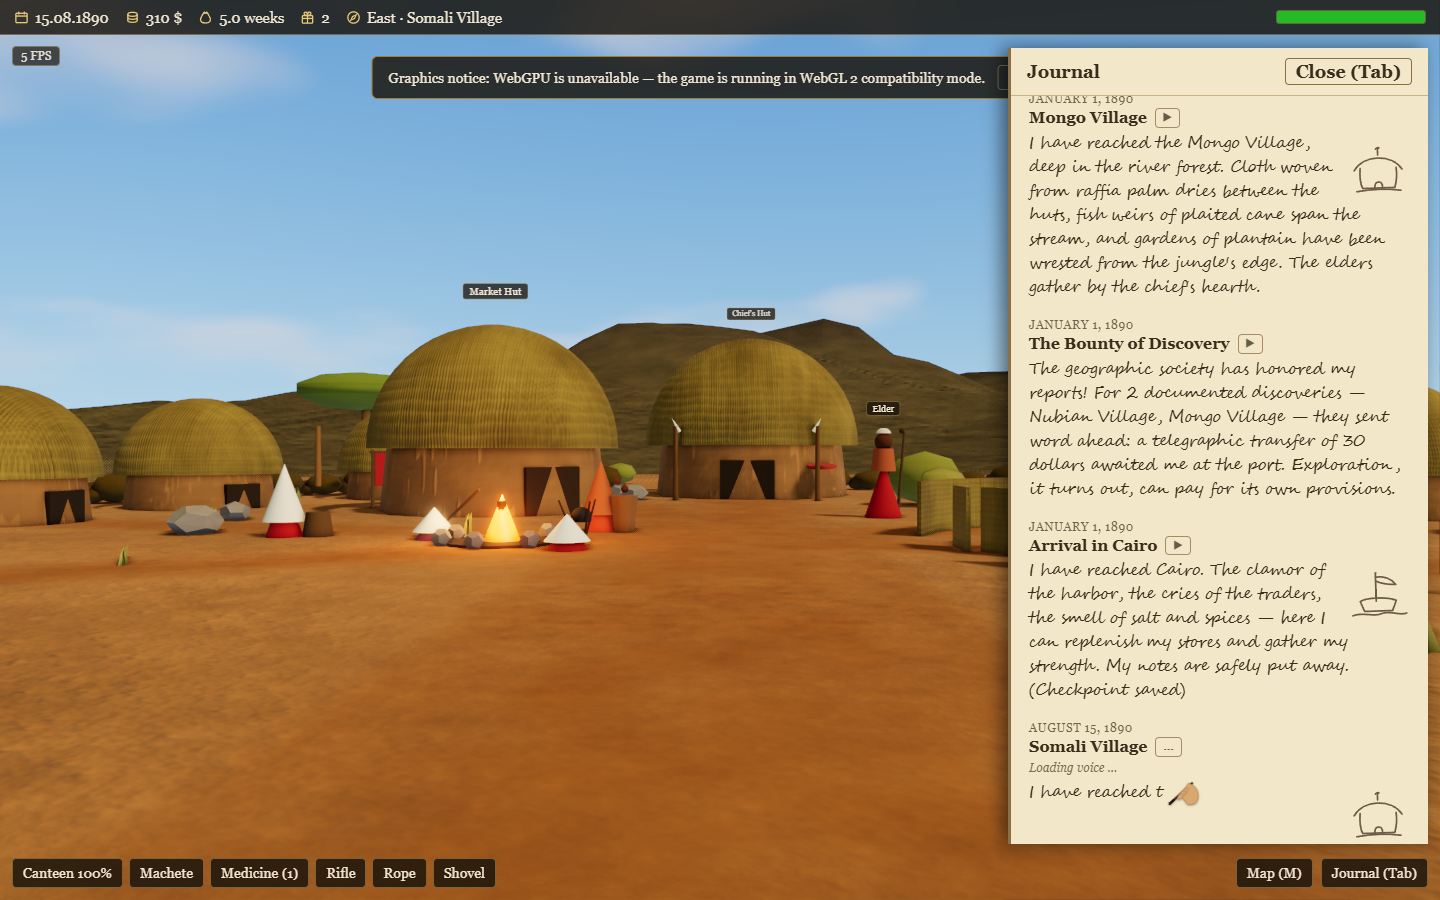
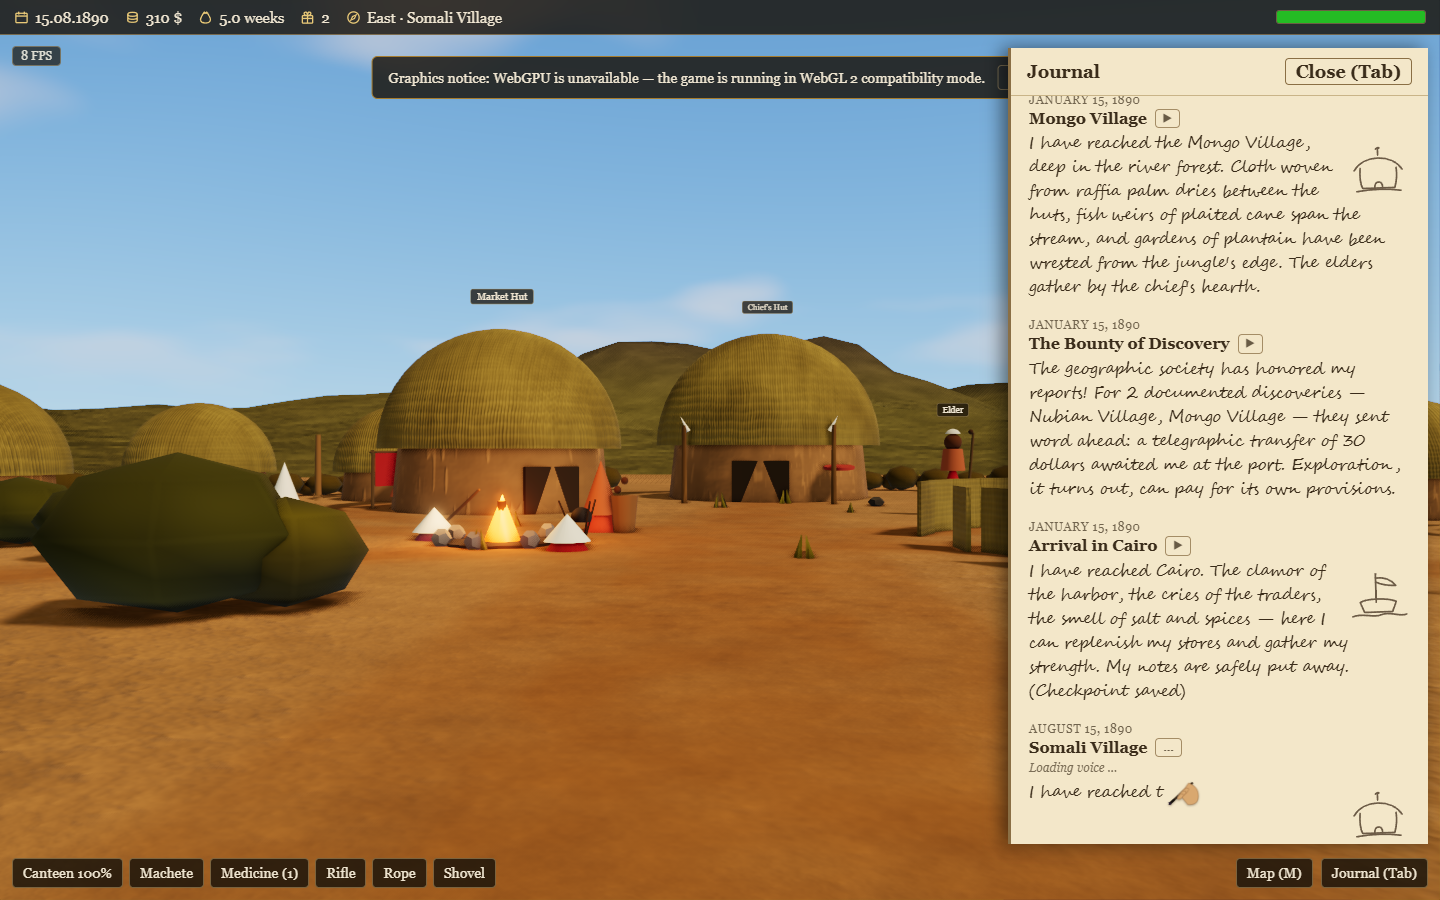
feat: the settlement season's missing renderers — rain and the flora tint
Point 143. The user, stepping through the months inside a village, saw
only the light and the skyline cloud change. Verified by grep and he was
right: point 120g had shipped a third of the settlement season. The rain
field lived only in the travel scene — a player stood in a village at the
peak of its rains and saw not one drop — and the straw/green tint lived
only in the travel terrain, so the settlement ground and trees never
bleached.

Both were missing renderers, not missing models: the place scene already
computed the wetness from the place's own coordinates and dimmed the sun
by it. Now:

- PlaceRain is its own field, calibrated for eye height: near-vertical
  streaks in a tight 16-unit column around the head, where the travel
  scene's tilted 55-unit column is calibrated for a camera looking down
  (a plumb streak from above is nearly edge-on). Driven by rainAmount of
  the place's own wetness, so a desert port never rains — verified across
  all twelve real months at Cairo, max rain 0.000.

- The flora and ground follow the season via the shared tint, extracted
  last commit. The ground is settlement-only (createGroundMaterial), so
  it never double-tints travel; bare earth barely shifts (correctly — it
  has no green to bleach), the trees and grass carry it.

Screenshot 114: the Maasai village under vertical rain.

Two bugs the live check caught along the way, both fixed: the Cairo loop
left no place entered and tripped the downstream panorama check (restored
[…]

diff --git a/src/scenes/place/PlaceRain.tsx b/src/scenes/place/PlaceRain.tsx
@@ -1,0 +1,75 @@
+// Rain inside a settlement (design.md §19.13, point 143). The travel scene's
+// rain field is calibrated for the bird's-eye camera — a wide column of
+// TILTED streaks, because a plumb streak seen from above is nearly edge-on. At
+// eye height none of that holds: the player looks horizontally, so the streaks
+// must be near-VERTICAL, and the column is tight around the head rather than
+// 55 units wide. So this is its own field, not a reused one.
+//
+// Driven by the place's own wetness (rainAmount), which is 0 in Cairo and every
+// hyper-arid coordinate — so a port in the desert never rains, with no special
+// case. Not a module singleton: the place scene rebuilds its materials each
+// visit anyway (unlike the travel scene, point 96), so a per-mount material is
+// consistent here.
+
+import { useEffect, useMemo, useRef } from 'react'
+import { useFrame } from '@react-three/fiber'
+import * as THREE from 'three/webgpu'
+import { float, hash, instanceIndex, max, positionLocal, smoothstep, time, uniform, vec3 } from 'three/tsl'
+import { balance } from '../../config/balance'
+import { rainAmount } from '../../systems/season'
+
+const RAIN_COUNT = 700
+const RAIN_RADIUS = 16 // a tight column around the head, not the travel 55
+const RAIN_HEIGHT = 15 // from above the eye to below the feet
+const RAIN_FALL_SPEED = 22
+const EYE = 1.5 // centre the column on the eye height
+
+export function PlaceRain({ wetness }: { wetness: React.MutableRefObject<number> }) {
+  const group = useRef<THREE.Group>(null)
+
+  const { material, geometry, opacityU } = useMemo(() => {
+    const opacityU = uniform(0)
+    const m = new THREE.MeshBasicNodeMaterial()
+    m.transparent = true
+    m.depthWrite = false
+    m.side = THREE.DoubleSide
+    m.fog = false
+    const i = instanceIndex.toFloat()
+    const rx = hash(i.mul(3).add(1)).sub(0.5).mul(RAIN_RADIUS * 2)
+    const rz = hash(i.mul(3).add(2)).sub(0.5).mul(RAIN_RADIUS * 2)
+    const phase = hash(i.mul(3))
+    const fall = phase.mul(RAIN_HEIGHT).sub(time.mul(RAIN_FALL_SPEED)).mod(RAIN_HEIGHT)
+    m.positionNode = positionLocal.add(vec3(rx, fall, rz))
+    m.colorNode = vec3(0.66, 0.72, 0.8)
+    const edge = max(rx.abs(), rz.abs()).div(RAIN_RADIUS)
+    m.opacityNode = opacityU.mul(smoothstep(float(1), float(0.4), edge)).mul(0.8)
+    // Slim near-vertical streaks, longer than the travel scene's so they read at
+    // eye height; a second, crossed set (below) shows them from any yaw.
+    const geometry = new THREE.PlaneGeometry(0.03, 1.1)
+    return { material: m, geometry, opacityU }
+  }, [])
+
+  useEffect(() => () => {
+    material.dispose()
+    geometry.dispose()
+  }, [material, geometry])
+
+  useFrame(({ camera }, dt) => {
+    // Follow the head so the column always surrounds the player.
+    if (group.current) group.current.position.set(camera.position.x, EYE, camera.position.z)
+    const target = rainAmount(wetness.current, balance.season.weatherStrength)
+    opacityU.value += (target - opacityU.value) * Math.min(1, dt * 1.5)
+    if (group.current) group.current.visible = opacityU.value > 0.01
+  })
+
+  return (
+    <group ref={group}>
+      <instancedMesh args={[geometry, material, RAIN_COUNT]} frustumCulled={false} />
+      <instancedMesh
+        args={[geometry, material, RAIN_COUNT]}
+        rotation={[0, Math.PI / 2, 0]}
+        frustumCulled={false}
+      />
+    </group>
+  )
+}

diff --git a/src/scenes/place/PlaceScene.tsx b/src/scenes/place/PlaceScene.tsx
@@ -22,11 +22,13 @@ import {
   texture as textureNode,
   vec2,
   vec3,
+  vertexColor,
 } from 'three/tsl'
+import { SEASON_TINT_U, seasonTintNode, setSeasonTint } from '../../render/seasonTint'
 import { useGame } from '../../state/store'
 import { useUi } from '../../state/ui'
 import { balance, START_YEAR } from '../../config/balance'
-import { effectiveWetness, RAIN_GRAY, skyOvercastParams, sunDimFactor } from '../../systems/season'
+import { effectiveGreenness, effectiveWetness, RAIN_GRAY, rainAmount, skyOvercastParams, sunDimFactor } from '../../systems/season'
 import { cloakForCloth } from '../../systems/dress'
 import { useColdCloaks, type ColdDress } from './useColdCloaks'
 import { elevationAt } from '../../world/geodata'
@@ -44,6 +46,7 @@ import {
 import { mulberry32 } from '../../world/noise'
 import { consumeTouchLook, gamepadLook, gamepadMove, isKeyDown, onKeyPress, touchMove } from '../../systems/input'
 import { SkyDome } from '../../render/sky'
+import { PlaceRain } from './PlaceRain'
 import { setSkyOvercast, skyOvercast } from '../../render/skyOvercast'
 import { PORT_SKY, VILLAGE_SKY } from '../../render/skyPresets'
 import { createGroundMaterial, createNoisyMaterial, createSurfaceMaterial, detailFade, proceduralBump } from '../../render/materials'
@@ -931,7 +934,15 @@ function GroundScatter({
 
   const tuftGeo = useMemo(() => buildGrassTuft(), [])
   const rockGeo = useMemo(() => buildRock(), [])
-  const material = useMemo(() => new THREE.MeshStandardMaterial({ vertexColors: true, roughness: 0.95 }), [])
+  // Grass tufts follow the season (point 143); the shared rock instances ride the
+  // same material, and the tint's greenness mask leaves their grey untouched.
+  const material = useMemo(() => {
+    const m = new THREE.MeshStandardNodeMaterial()
+    m.vertexColors = true
+    m.roughness = 0.95
+    m.colorNode = seasonTintNode(vertexColor().rgb)
+    return m
+  }, [])
   const tuftMesh = useRef<THREE.InstancedMesh>(null)
   const rockMesh = useRef<THREE.InstancedMesh>(null)
 
@@ -1424,10 +1435,15 @@ export function PlaceScene() {
     () => ({ palm: buildPalm(true), acacia: buildAcacia(), jungle: buildJungleTree(), bush: buildBush() }),
     [],
   )
-  const floraMaterial = useMemo(
-    () => new THREE.MeshStandardMaterial({ vertexColors: true, roughness: 0.9 }),
-    [],
-  )
+  const floraMaterial = useMemo(() => {
+    // A node material so the settlement's trees and bushes follow the season
+    // (design.md §19.13, point 143), with the same tint the travel flora uses.
+    const m = new THREE.MeshStandardNodeMaterial()
+    m.vertexColors = true
+    m.roughness = 0.9
+    m.colorNode = seasonTintNode(vertexColor().rgb)
+    return m
+  }, [])
 
   // yaw 0 faces -Z (toward the place center from the southern spawn point).
   const player = useRef({ x: 0, z: 18, yaw: 0 })
@@ -1481,6 +1497,8 @@ export function PlaceScene() {
       sun: sunRef.current?.intensity ?? 0,
       hemi: hemiRef.current?.intensity ?? 0,
       sky: skyOvercast(),
+      rain: rainAmount(placeWetness.current, balance.season.weatherStrength),
+      tint: SEASON_TINT_U.value,
     })
     return () => {
       delete w.__placeSeason
@@ -1598,6 +1616,14 @@ export function PlaceScene() {
       const dim = sunDimFactor(wet, balance.season.weatherStrength)
       const sky = skyOvercastParams(wet, balance.season.weatherStrength)
       setSkyOvercast(sky.grayMix, sky.cloudBoost)
+      // The ground and flora bleach/green with the season, driven from THIS
+      // place's greenness — relative-per-zone like the travel scene, so a
+      // savanna village bleaches fully while the desert and the basin stay put.
+      const green = effectiveGreenness(
+        useGame.getState().day, place.lat, place.lon, START_YEAR,
+        elevationAt(place.lat, place.lon), useUi.getState().seasonWetnessOverride,
+      )
+      setSeasonTint(green, balance.season.weatherStrength)
       const k = Math.min(1, dt * 0.8)
       // The fog carries the overcast onto the §2.5 backdrop, which is otherwise
       // lit by the preset alone and would stay sunny behind a rained-out village.
@@ -1773,6 +1799,7 @@ export function PlaceScene() {
       <color attach="background" args={[sky.horizon]} />
       <fog attach="fog" args={[sky.horizon, 42, 320]} />
       <SkyDome preset={sky} sunDirection={SUN_DIR} radius={400} />
+      <PlaceRain wetness={placeWetness} />
       <hemisphereLight ref={hemiRef} args={[isPort ? '#cfe2ee' : '#d8e2c2', '#8f7a55', PLACE_HEMI_INTENSITY]} />
       <directionalLight
         // Remount the light when shadows toggle so the shadow map is rebuilt from

diff --git a/src/render/materials.ts b/src/render/materials.ts
@@ -10,6 +10,7 @@
 // repetition.
 
 import * as THREE from 'three/webgpu'
+import { seasonTintNode } from './seasonTint'
 import {
   cameraViewMatrix,
   color,
@@ -322,7 +323,12 @@ export function createGroundMaterial(
       .clamp(0, 1)
   })()
   if (paths) col = mix(col, color(paths.color), pathMask.mul(float(0.95)))
-  m.colorNode = col.mul(surfaceStructure('ground'))
+  // The settlement ground follows the season like the travel terrain does
+  // (design.md §19.13, point 143): the tint bleaches any greenish earth toward
+  // straw in the dry season and deepens it in the rains, and leaves bare sand
+  // and trodden paths alone (its greenness mask). createGroundMaterial is
+  // settlement-only, so this never double-tints the travel scene.
+  m.colorNode = seasonTintNode(col).mul(surfaceStructure('ground'))
   // Baked micro-relief; trodden paths are worn flat (the tangent deflection
   // fades where the mask is strong).
   m.normalNode = surfaceNormal('ground', pathMask.oneMinus().mul(0.85).add(0.15))

diff --git a/CLAUDE.md b/CLAUDE.md
@@ -535,18 +535,26 @@ verify suite that proves it.
       to green, and the dry season's wider shore catchment gathers the
       animals at the remaining water (`scripts/verify/enrichments.mjs`);
       inside a settlement the season is derived from the PLACE's own
-      coordinates and dims the sun and sky light while graying the dome
-      and thickening its cloud deck, so the §19.10 firelight carries
-      further under the overcast (`scripts/verify/polish.mjs`,
-      screenshots 110/111). The inhabitants' cold-weather dress is
-      evidence-gated: the Zulu isipuku (Mayr 1907, the one period source
-      among the game's peoples) appears in the austral winter and is shed
-      in summer, while every people the research found no period evidence
-      for stays bare however cold its ground gets — pure-tested in
-      `src/systems/dress.test.ts` (incl. the two named traps: the San's
-      cold Kalahari and the Pedi highveld both cross the coldness
-      threshold and still wear nothing extra), live-checked via
-      `__placeDress` in `scripts/verify/polish.mjs` (screenshot 112).
+      coordinates and dims the sun and sky light, grays the dome, thickens
+      the cloud deck, RAINS (a near-vertical eye-height field, calibrated
+      apart from the bird's-eye's tilted streaks) and bleaches/greens the
+      ground and flora with the shared per-zone tint — so the §19.10
+      firelight carries further under the overcast and a desert port
+      (Cairo) stays rainless in every month, all live-checked via
+      `__placeSeason`/`__placeDress` in `scripts/verify/polish.mjs`
+      (screenshots 110/111/114). The inhabitants' seasonal dress is
+      evidence-gated per `docs/peoples-1890.md` §7: SIX peoples change on
+      their own driver — the Zulu isipuku (cold), the rank-gated Tuareg
+      bernus (cold) and Hausa zenne (harmattan), the San ‡nau (cold), the
+      Wayeyi caross (cold) and the Somali tobe drawn over the head (karif)
+      — while the other sixteen stay bare however cold their ground gets,
+      the cold being a class experience where it is felt at all. The
+      per-people mapping, the three drivers, the rank gate and the two
+      named traps (the San's cold Kalahari IS dressed on Passarge's
+      evidence; the Pedi highveld crosses the threshold and is NOT, the
+      blanket being a people the game lacks) are pure-tested in
+      `src/systems/dress.test.ts`; the live half is `__placeDress` in
+      `scripts/verify/polish.mjs` (screenshots 112/113).
 
     OPEN: tree-climbing-to-flee and additional new species/birds beyond
     the existing roster and the added calves remain to be implemented (§9

diff --git a/design.md b/design.md
@@ -640,7 +640,9 @@ There is no day/night cycle: game time runs in fast-forward (about five years of
 
 The date drives the seasons, and each place shows the weather that was typical for it at that time of year — grounded in the researched ~1890 climate (`docs/climate-1890.md`), not in a generic wet/dry toggle. The model derives a wetness from the calendar date and the place (latitude, longitude, elevation): the Sahel's single summer rains peaking in August, the double rains of the equator, the Cape's winter rain opposite the plateau, the Ethiopian highlands' kiremt — and Cairo effectively rainless the year round. Deliberately encoded rather than left to intuition: rain does NOT follow the sun's convergence line (the real rainband lags far south of it), East Africa's bimodal calendar is stated outright, and the Sahel reads WET, because 1890 sits inside the 1870–1895 humid period. Snow can exist only where it really occurred (the high summits and the winter Atlas — no settlement qualifies, so no village ever shows snow on the ground; savanna snow is physically impossible).
 
-In the bird's-eye view the wet season closes the sight lines (fog pulls in and grays toward overcast), dims the sunlight to an overcast level, and rains visibly — wind-slanted streaks around the traveller. The dry season is the unchanged §19.9 baseline. The zoomed-out debug view stays season-free like it stays haze-free. The land itself follows the season: the ground and the foliage bleach toward straw in the dry season and deepen to green in the rains (only the greenery — rock, sand and trunks stay put, and the deserts, being rainless year round, never leave their neutral look). The wildlife follows it too: in the dry season the animals gather at the remaining water (a wider shore catchment draws them in from farther out), so the shrinking rivers and lakes visibly concentrate life. The first-person settlements follow the season as well: each derives the weather from its OWN coordinates (the bird's-eye weather is not carried in — it would be a stale reading of wherever the traveller last stood), and the rains gray the sky dome, thicken its cloud deck, gray the fog onto the §2.5 backdrop and dim the sun and sky light. The sky is dimmed together with the light on purpose: a dimmed sun under a bright blue sky reads as a bug, not as rain. The §19.10 firelight is a fixed point light and so carries visibly further under the overcast sun. The inhabitants dress for the cold, but only where the record says so: `docs/peoples-1890.md` asked exactly that question and found ONE period source among the game's peoples — Mayr (1907) on the Zulu *isipuku*, an ox-hide cloak "greased and worn by day in cold weather", added over the everyday dress. So a Zulu villager wears it through the austral winter and sheds it in summer, in the mid-transition mix of 1890 (greased black hide, hide with red ochre, and a PLAIN trade blanket — the patterned "Victoria England" design is 1897 and would be an anachronism). Every other people wears the same dress the year round, deliberately: the research reads "Sahel harmattan: EVIDENCE ABSENT — do not invent", the Tuareg seasonal claims are 20th-century tourism copy, the San kaross is tertiary-sourced, no period account of kiremt-season dress exists, and the Basotho blanket belongs to a people the game does not have ("Lesotho is not Zululand"). Coldness therefore never implies a cloak — the Kalahari and the Pedi highveld get cold and stay bare. OPEN: the one reading the research does allow but the figures cannot yet show — that a wrap is worn *differently* in the cold (drawn tight, pulled over head and shoulders) rather than in greater number. Like all of §19 this is ambience and touches no mechanic (whether weather should ever affect movement/health is an OPEN design question, deliberately not invented).
+In the bird's-eye view the wet season closes the sight lines (fog pulls in and grays toward overcast), dims the sunlight to an overcast level, and rains visibly — wind-slanted streaks around the traveller. The dry season is the unchanged §19.9 baseline. The zoomed-out debug view stays season-free like it stays haze-free. The land itself follows the season: the ground and the foliage bleach toward straw in the dry season and deepen to green in the rains (only the greenery — rock, sand and trunks stay put, and the deserts, being rainless year round, never leave their neutral look). The wildlife follows it too: in the dry season the animals gather at the remaining water (a wider shore catchment draws them in from farther out), so the shrinking rivers and lakes visibly concentrate life. The first-person settlements follow the season as well, and the whole of it, not a fragment: each derives the weather from its OWN coordinates (the bird's-eye weather is not carried in — it would be a stale reading of wherever the traveller last stood). The rains gray the sky dome, thicken its cloud deck, gray the fog onto the §2.5 backdrop, dim the sun and sky light, **rain visibly** (a near-vertical eye-height field, distinct from the bird's-eye's tilted streaks — a plumb streak seen from above is nearly edge-on, so the two are calibrated apart), and **bleach the ground and flora toward straw or deepen them to green** with the same relative-per-zone tint the bird's-eye view uses. A desert port stays rainless in every month (Cairo is hyper-arid). The sky is dimmed together with the light on purpose: a dimmed sun under a bright blue sky reads as a bug, not as rain. The §19.10 firelight is a fixed point light and so carries visibly further under the overcast sun.
+
+The inhabitants dress for the season, but only where the period record supports it (`docs/peoples-1890.md` §7): the seasonal signal is usually NOT an extra coat — across the sources the answer to cold is fire, shelter and architecture, and where a garment answers it is one already on the body worn differently. Six of the game's peoples change with the season, each on its own driver: the **Zulu** greased *isipuku* cloak in the austral winter (Mayr 1907); the **Tuareg** black/red bernus, and the **Hausa** Kano-woven zenne plaid, both worn only by a person of RANK (the cold here is a class experience — Barth's poor sat at a pre-dawn fire in the same rag they wore in August); the **San** ‡nau leather cloak closed over both shoulders (Passarge); the **Wayeyi** light caross "accommodated to the body according to the state of the weather" (Andersson, the one case needing no inference); and the **Somali** cotton tobe drawn up over the HEAD in the karif — a shape change, not a colour one (Swayne). The other sixteen peoples wear the same dress the year round, deliberately and on the record, not for want of building it. OPEN: the "worn differently" reading beyond the Somali head-muffle (a wrap drawn tight, pulled over the shoulders) the primitive figures cannot yet show. Like all of §19 this is ambience and touches no mechanic (whether weather should ever affect movement/health is an OPEN design question, deliberately not invented).
 
 **The climate states are deliberately EXAGGERATED (user decision, 16.07.2026).** The game renders abstract and stylised, so the seasons need not be subtly realistic: they may be laid on a little thickly — kitschy, even — so that the player recognises them at a glance. This is a licence about the DEPICTION, not about the facts: the model underneath stays keyed to the researched ~1890 climate above, and a season is still shown only where and when it really occurred. What is exaggerated is how loudly a real state is stated, never whether it is stated at all — a Congo that has no dry season still gets none, and the Sahara still never greens. The licence exists because the honest measurement said it was needed: with the restrained calibration, stepping through the months read as nothing but a change in brightness (the ground's green excess moved 41 to 45 across the Sahel's entire year), which is a failure to communicate a fact, not a virtue of restraint. This is the second deliberate carve-out from the accuracy principle, alongside the §19.8 grief; like that one, it is recorded so that nobody later "corrects" it.
 